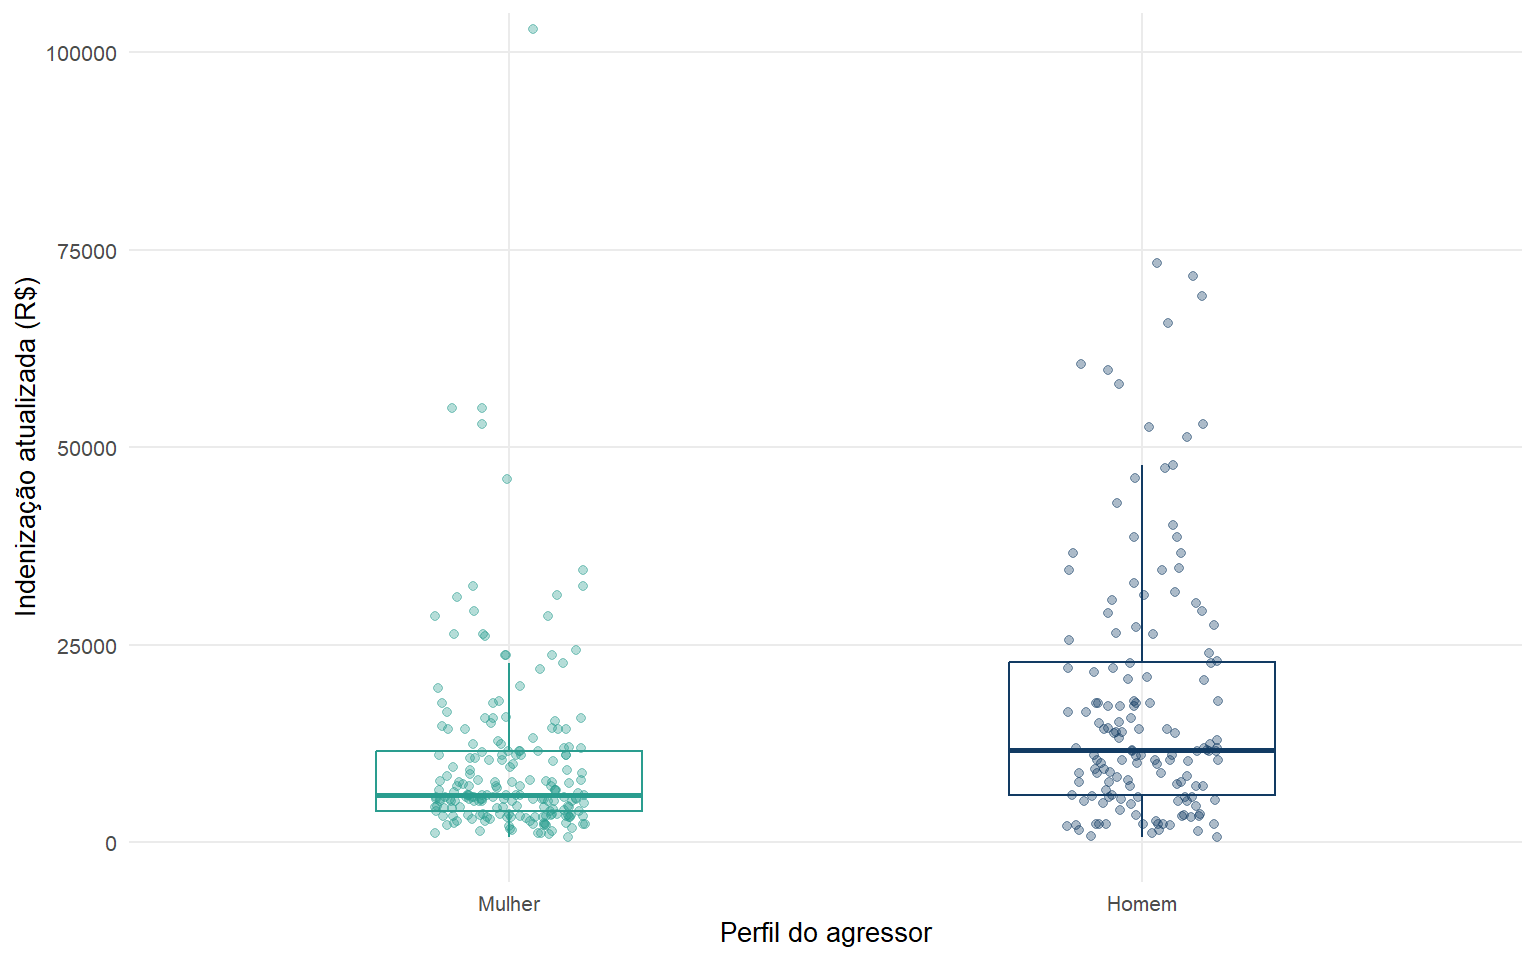
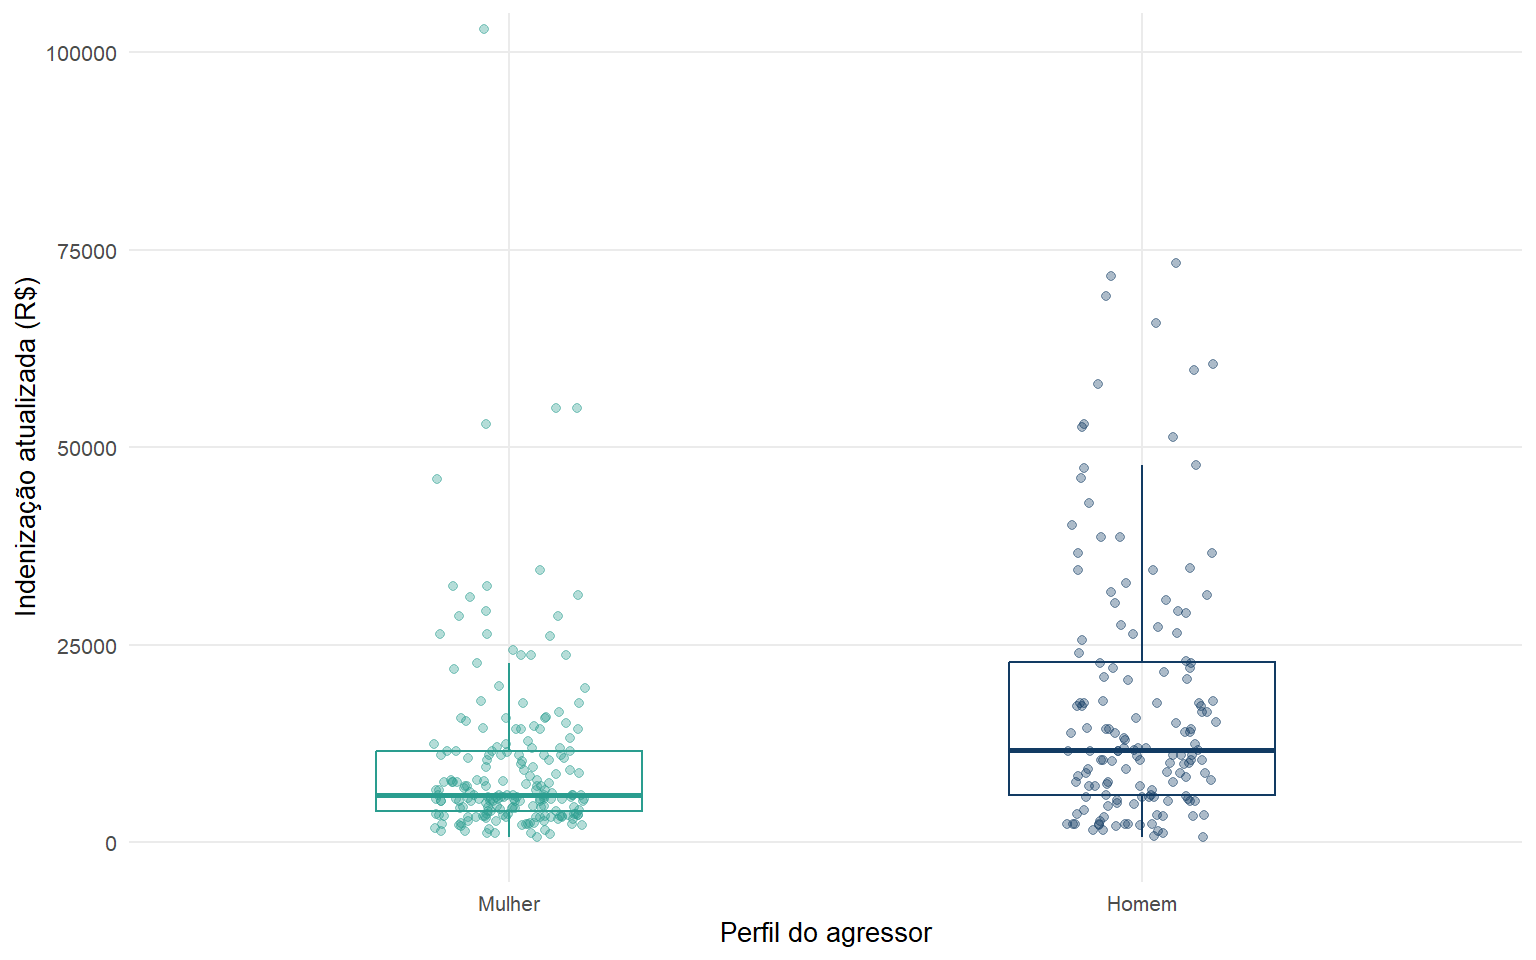
novas modificacoes

diff --git a/docs/capitulos/P5C01-modelos-lineares.html b/docs/capitulos/P5C01-modelos-lineares.html
@@ -1839,11 +1839,11 @@ F-statistic: 12.64 on 5 and 343 DF,  p-value: 2.762e-11</code></pre>
 <span id="cb69-15"><a href="#cb69-15" aria-hidden="true" tabindex="-1"></a></span>
 <span id="cb69-16"><a href="#cb69-16" aria-hidden="true" tabindex="-1"></a>resumo_agressor <span class="ot">&lt;-</span> <span class="fu">data.frame</span>(</span>
 <span id="cb69-17"><a href="#cb69-17" aria-hidden="true" tabindex="-1"></a>  <span class="at">Grupo =</span> <span class="fu">c</span>(<span class="st">"Agressora mulher"</span>, <span class="st">"Agressor homem"</span>),</span>
-<span id="cb69-18"><a href="#cb69-18" aria-hidden="true" tabindex="-1"></a>  <span class="st">`</span><span class="at">Média observada (R$)</span><span class="st">`</span> <span class="ot">=</span> <span class="fu">c</span>(</span>
+<span id="cb69-18"><a href="#cb69-18" aria-hidden="true" tabindex="-1"></a>  <span class="st">`</span><span class="at">Média observada (reais)</span><span class="st">`</span> <span class="ot">=</span> <span class="fu">c</span>(</span>
 <span id="cb69-19"><a href="#cb69-19" aria-hidden="true" tabindex="-1"></a>    <span class="fu">mean</span>(dados_modelos<span class="sc">$</span>valor_indenizacao_jul2026[dados_modelos<span class="sc">$</span>agressor_homem <span class="sc">==</span> <span class="dv">0</span>]),</span>
 <span id="cb69-20"><a href="#cb69-20" aria-hidden="true" tabindex="-1"></a>    <span class="fu">mean</span>(dados_modelos<span class="sc">$</span>valor_indenizacao_jul2026[dados_modelos<span class="sc">$</span>agressor_homem <span class="sc">==</span> <span class="dv">1</span>])</span>
 <span id="cb69-21"><a href="#cb69-21" aria-hidden="true" tabindex="-1"></a>  ),</span>
-<span id="cb69-22"><a href="#cb69-22" aria-hidden="true" tabindex="-1"></a>  <span class="st">`</span><span class="at">Média prevista ajustada (R$)</span><span class="st">`</span> <span class="ot">=</span> <span class="fu">c</span>(</span>
+<span id="cb69-22"><a href="#cb69-22" aria-hidden="true" tabindex="-1"></a>  <span class="st">`</span><span class="at">Média prevista ajustada (reais)</span><span class="st">`</span> <span class="ot">=</span> <span class="fu">c</span>(</span>
 <span id="cb69-23"><a href="#cb69-23" aria-hidden="true" tabindex="-1"></a>    media_ajustada_mulher,</span>
 <span id="cb69-24"><a href="#cb69-24" aria-hidden="true" tabindex="-1"></a>    media_ajustada_homem</span>
 <span id="cb69-25"><a href="#cb69-25" aria-hidden="true" tabindex="-1"></a>  ),</span>
@@ -1858,11 +1858,16 @@ F-statistic: 12.64 on 5 and 343 DF,  p-value: 2.762e-11</code></pre>
 <div class="cell-output-display">
 <table class="caption-top table table-sm table-striped small">
 <caption>Médias observadas e médias previstas ajustadas segundo o perfil do agressor</caption>
+<colgroup>
+<col style="width: 23%">
+<col style="width: 32%">
+<col style="width: 43%">
+</colgroup>
 <thead>
 <tr class="header">
 <th style="text-align: left;">Grupo</th>
-<th style="text-align: right;">Média observada (R<span class="math inline">\()| Média prevista ajustada (R\)</span>)</th>
-<th style="text-align: right;"></th>
+<th style="text-align: right;">Média observada (reais)</th>
+<th style="text-align: right;">Média prevista ajustada (reais)</th>
 </tr>
 </thead>
 <tbody>
@@ -1883,16 +1888,16 @@ F-statistic: 12.64 on 5 and 343 DF,  p-value: 2.762e-11</code></pre>
 <div class="code-copy-outer-scaffold"><div class="sourceCode cell-code" id="cb70"><pre class="sourceCode r code-with-copy"><code class="sourceCode r"><span id="cb70-1"><a href="#cb70-1" aria-hidden="true" tabindex="-1"></a>grafico_binario <span class="ot">&lt;-</span> resumo_agressor <span class="sc">|&gt;</span></span>
 <span id="cb70-2"><a href="#cb70-2" aria-hidden="true" tabindex="-1"></a>  <span class="fu">mutate</span>(<span class="at">Grupo =</span> <span class="fu">factor</span>(Grupo, <span class="at">levels =</span> <span class="fu">c</span>(<span class="st">"Agressora mulher"</span>, <span class="st">"Agressor homem"</span>)))</span>
 <span id="cb70-3"><a href="#cb70-3" aria-hidden="true" tabindex="-1"></a></span>
-<span id="cb70-4"><a href="#cb70-4" aria-hidden="true" tabindex="-1"></a><span class="fu">ggplot</span>(grafico_binario, <span class="fu">aes</span>(<span class="at">x =</span> Grupo, <span class="at">y =</span> <span class="st">`</span><span class="at">Média prevista ajustada (R$)</span><span class="st">`</span>, <span class="at">color =</span> Grupo)) <span class="sc">+</span></span>
+<span id="cb70-4"><a href="#cb70-4" aria-hidden="true" tabindex="-1"></a><span class="fu">ggplot</span>(grafico_binario, <span class="fu">aes</span>(<span class="at">x =</span> Grupo, <span class="at">y =</span> <span class="st">`</span><span class="at">Média prevista ajustada (reais)</span><span class="st">`</span>, <span class="at">color =</span> Grupo)) <span class="sc">+</span></span>
 <span id="cb70-5"><a href="#cb70-5" aria-hidden="true" tabindex="-1"></a>  <span class="fu">geom_point</span>(<span class="at">size =</span> <span class="dv">4</span>) <span class="sc">+</span></span>
 <span id="cb70-6"><a href="#cb70-6" aria-hidden="true" tabindex="-1"></a>  <span class="fu">geom_text</span>(</span>
-<span id="cb70-7"><a href="#cb70-7" aria-hidden="true" tabindex="-1"></a>    <span class="fu">aes</span>(<span class="at">label =</span> <span class="fu">sprintf</span>(<span class="st">"R$ %.2f"</span>, <span class="st">`</span><span class="at">Média prevista ajustada (R$)</span><span class="st">`</span>)),</span>
+<span id="cb70-7"><a href="#cb70-7" aria-hidden="true" tabindex="-1"></a>    <span class="fu">aes</span>(<span class="at">label =</span> <span class="fu">sprintf</span>(<span class="st">"R$ %.2f"</span>, <span class="st">`</span><span class="at">Média prevista ajustada (reais)</span><span class="st">`</span>)),</span>
 <span id="cb70-8"><a href="#cb70-8" aria-hidden="true" tabindex="-1"></a>    <span class="at">vjust =</span> <span class="sc">-</span><span class="dv">1</span>,</span>
 <span id="cb70-9"><a href="#cb70-9" aria-hidden="true" tabindex="-1"></a>    <span class="at">show.legend =</span> <span class="cn">FALSE</span></span>
 <span id="cb70-10"><a href="#cb70-10" aria-hidden="true" tabindex="-1"></a>  ) <span class="sc">+</span></span>
 <span id="cb70-11"><a href="#cb70-11" aria-hidden="true" tabindex="-1"></a>  <span class="fu">scale_color_manual</span>(<span class="at">values =</span> <span class="fu">c</span>(<span class="st">"Agressora mulher"</span> <span class="ot">=</span> cor_verde, <span class="st">"Agressor homem"</span> <span class="ot">=</span> cor_azul)) <span class="sc">+</span></span>
 <span id="cb70-12"><a href="#cb70-12" aria-hidden="true" tabindex="-1"></a>  <span class="fu">labs</span>(<span class="at">x =</span> <span class="cn">NULL</span>, <span class="at">y =</span> <span class="st">"Média prevista ajustada (R$)"</span>) <span class="sc">+</span></span>
-<span id="cb70-13"><a href="#cb70-13" aria-hidden="true" tabindex="-1"></a>  <span class="fu">expand_limits</span>(<span class="at">y =</span> <span class="fu">max</span>(grafico_binario<span class="sc">$</span><span class="st">`</span><span class="at">Média prevista ajustada (R$)</span><span class="st">`</span>) <span class="sc">*</span> <span class="fl">1.18</span>) <span class="sc">+</span></span>
+<span id="cb70-13"><a href="#cb70-13" aria-hidden="true" tabindex="-1"></a>  <span class="fu">expand_limits</span>(<span class="at">y =</span> <span class="fu">max</span>(grafico_binario<span class="sc">$</span><span class="st">`</span><span class="at">Média prevista ajustada (reais)</span><span class="st">`</span>) <span class="sc">*</span> <span class="fl">1.18</span>) <span class="sc">+</span></span>
 <span id="cb70-14"><a href="#cb70-14" aria-hidden="true" tabindex="-1"></a>  <span class="fu">theme_minimal</span>(<span class="at">base_size =</span> <span class="dv">10</span>) <span class="sc">+</span></span>
 <span id="cb70-15"><a href="#cb70-15" aria-hidden="true" tabindex="-1"></a>  <span class="fu">theme</span>(<span class="at">panel.grid.minor =</span> <span class="fu">element_blank</span>(), <span class="at">legend.position =</span> <span class="st">"none"</span>)</span></code></pre></div><button title="Copiar para a área de transferência" class="code-copy-button"><i class="bi"></i></button></div>
 <div class="cell-output-display">
@@ -1905,6 +1910,22 @@ F-statistic: 12.64 on 5 and 343 DF,  p-value: 2.762e-11</code></pre>
 </div>
 </div>
 <p>O fator de retransformação corrige a passagem da escala logarítmica para reais. Sem essa correção, a exponencial da previsão no log representa um valor típico retransformado, mas não a média aritmética condicional da indenização.</p>
+<div class="callout callout-style-default callout-note callout-titled">
+<div class="callout-header d-flex align-content-center">
+<div class="callout-icon-container">
+<i class="callout-icon"></i>
+</div>
+<div class="callout-title-container flex-fill">
+<span class="screen-reader-only">Nota</span>Como foi calculada a média prevista ajustada?
+</div>
+</div>
+<div class="callout-body-container callout-body">
+<p>Para obter o valor referente à agressora mulher, definimos <code>agressor_homem = 0</code> nos 349 processos. Em cada observação, mantivemos o número de provas, o tribunal e a participação da plataforma originalmente registrados. O modelo produziu, assim, um valor predito para cada processo como se a agressora fosse mulher. A média desses 349 valores preditos, após a correção de retransformação, foi R$ 11.495,63.</p>
+<p>O coeficiente estimado para agressor homem foi 0,4887. No modelo log–nível, esse coeficiente corresponde à razão <span class="math inline">\(e^{0{,}4887}=1{,}6302\)</span>, isto é, a uma diferença de 63,02%. Como o modelo não contém interação com o perfil do agressor, essa razão é constante para todas as combinações das demais variáveis. Aplicando-a à média prevista para agressora mulher, obtemos:</p>
+<p><span class="math display">\[R\$\,11.495{,}63 \times 1{,}6302 = R\$\,18.740{,}42.\]</span></p>
+<p>Portanto, apenas o perfil do agressor foi alterado. As demais características permaneceram com a distribuição observada no banco. O valor apresentado para cada grupo é uma média de previsões ajustadas, e não o intercepto <span class="math inline">\(\widehat\beta_0\)</span> isoladamente.</p>
+</div>
+</div>
 </section>
 </section>
 <section id="categorias-múltiplas-os-tribunais" class="level3" data-number="17.9.4">
